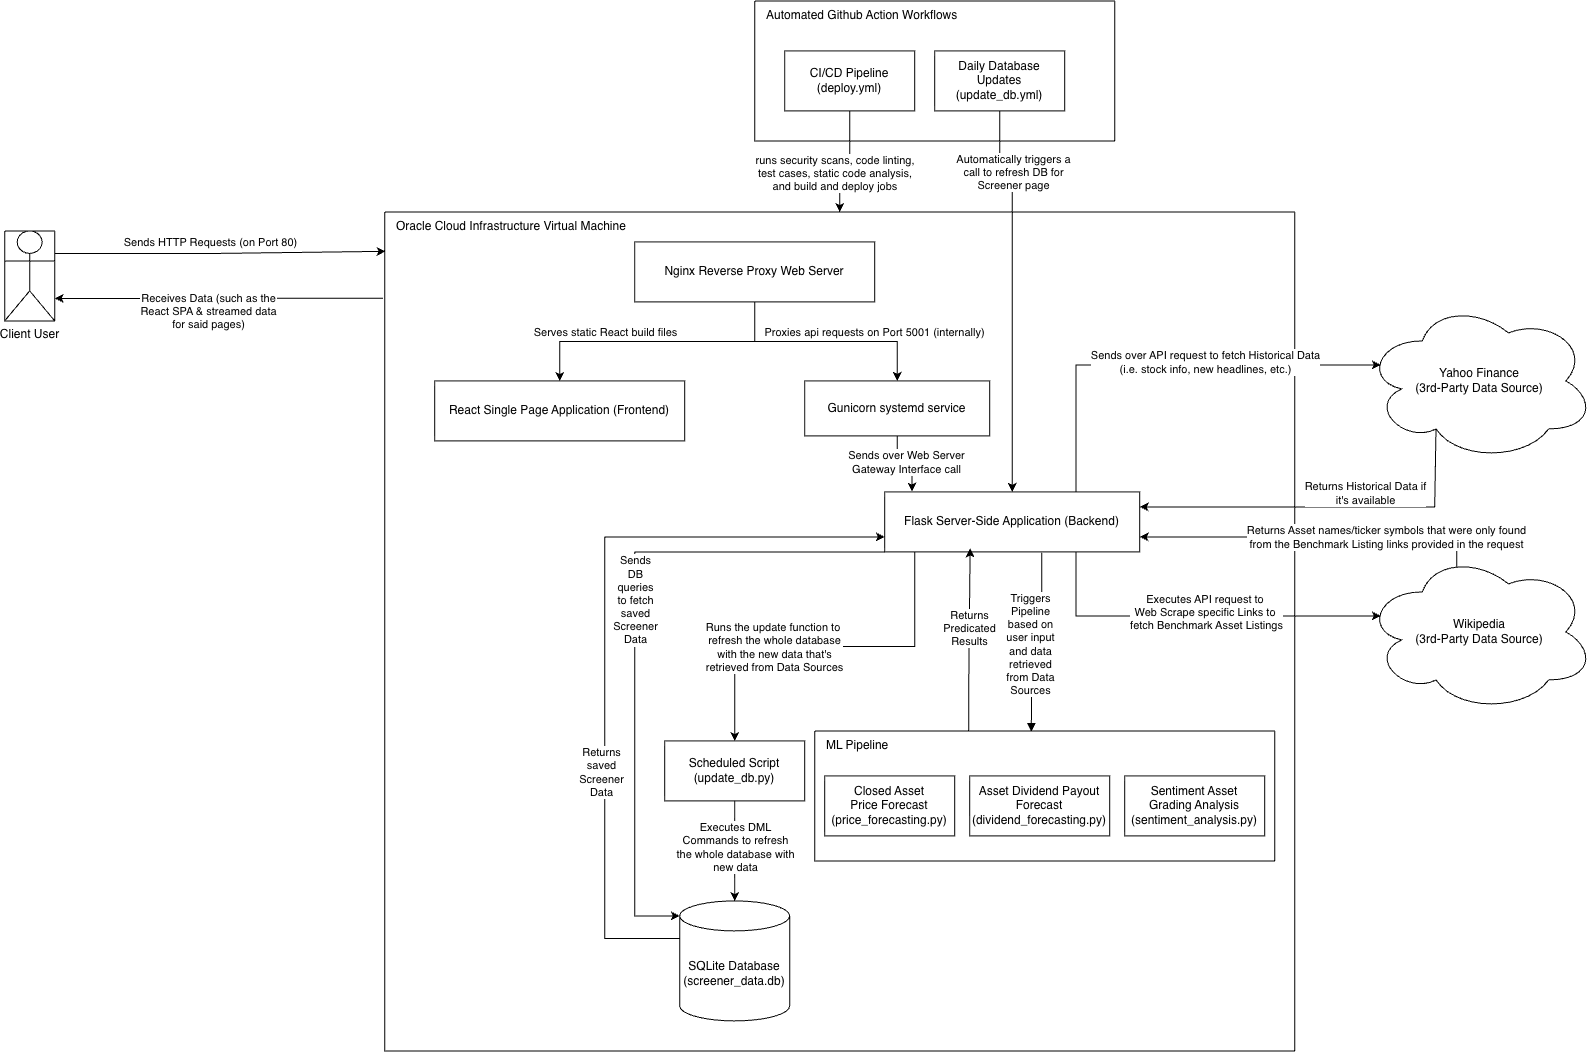
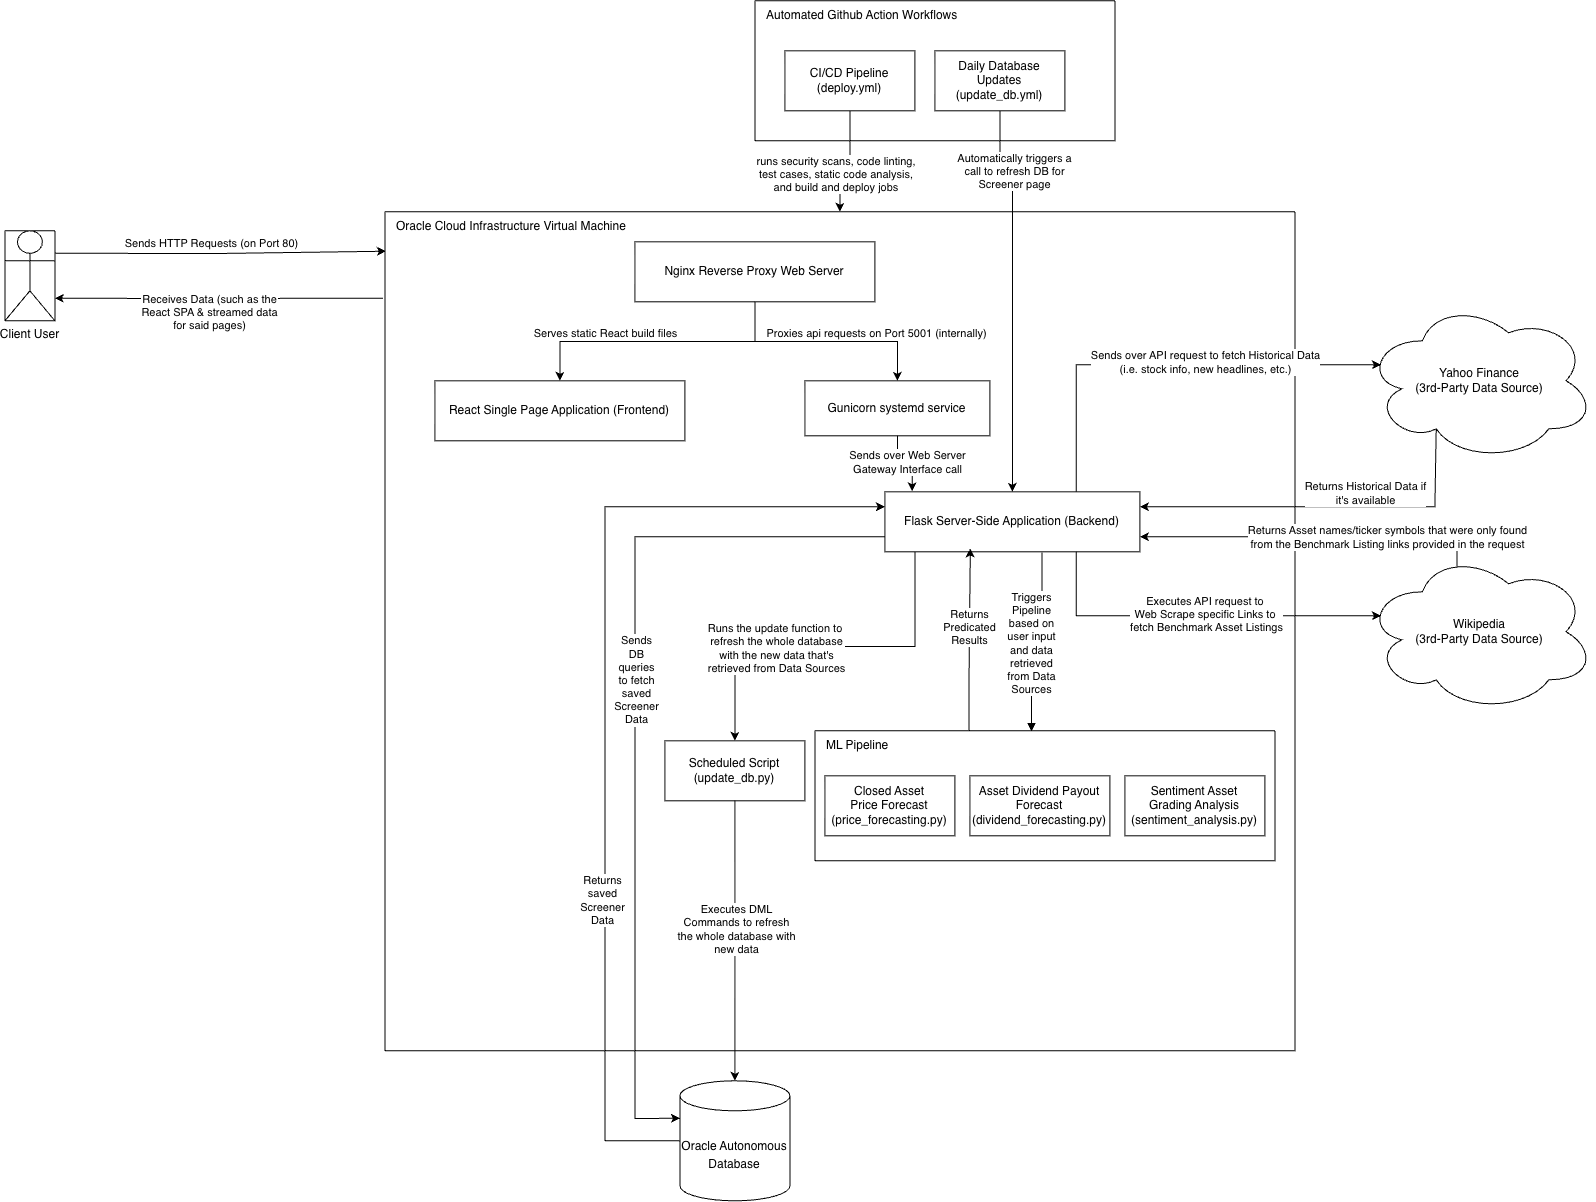
migrating from SQLite to Oracle Autonomous Database

diff --git a/backend/tests/utils/test_db_utils.py b/backend/tests/utils/test_db_utils.py
@@ -11,18 +11,18 @@ from utils.db_utils import (
 )
 
 
-@patch('utils.db_utils.os.path.exists')
-@patch('utils.db_utils.sqlite3.connect')
-def test_get_db_connection_success(mock_connect, mock_exists):
-    mock_exists.return_value = True
+@patch('utils.db_utils.get_engine')
+def test_get_db_connection_success(mock_get_engine):
     conn = get_db_connection()
-    mock_connect.assert_called_once()
-    assert conn == mock_connect.return_value
+    mock_get_engine.assert_called_once()
+    assert conn == mock_get_engine.return_value.raw_connection.return_value
 
-@patch('utils.db_utils.os.path.exists')
-def test_get_db_connection_not_found(mock_exists):
-    mock_exists.return_value = False
-    with pytest.raises(FileNotFoundError):
+@patch.dict('os.environ', {}, clear=True)
+def test_get_db_connection_not_found():
+    # Clear the cached engine module variable
+    import utils.db_utils
+    utils.db_utils.engine = None
+    with pytest.raises(ValueError, match="DB_DSN is not set"):
         get_db_connection()
 
 @patch('utils.db_utils.get_db_connection')
@@ -84,11 +84,11 @@ def test_get_latest_headlines_exception(mock_get_conn):
     headlines = get_latest_headlines()
     assert headlines == []
 
-@patch('utils.db_utils.get_db_connection')
+@patch('utils.db_utils.get_engine')
 @patch('utils.db_utils.pd.read_sql')
-def test_get_historical_prices_df(mock_read_sql, mock_get_conn):
-    mock_conn = MagicMock()
-    mock_get_conn.return_value = mock_conn
+def test_get_historical_prices_df(mock_read_sql, mock_get_engine):
+    mock_eng = MagicMock()
+    mock_get_engine.return_value = mock_eng
     
     # Mock empty dataframe
     mock_read_sql.return_value = pd.DataFrame()
@@ -114,8 +114,8 @@ def test_get_historical_prices_df(mock_read_sql, mock_get_conn):
     assert 'AAPL' in df2.columns.levels[0]
     assert 'MSFT' in df2.columns.levels[0]
 
-@patch('utils.db_utils.get_db_connection')
-def test_get_historical_prices_df_exception(mock_get_conn):
-    mock_get_conn.side_effect = Exception("DB Error")
+@patch('utils.db_utils.get_engine')
+def test_get_historical_prices_df_exception(mock_get_engine):
+    mock_get_engine.side_effect = Exception("DB Error")
     df = get_historical_prices_df()
     assert df.empty

diff --git a/backend/tests/database/scripts/test_update_db.py b/backend/tests/database/scripts/test_update_db.py
@@ -108,7 +108,7 @@ def test_write_headlines(mock_fetch):
     _write_headlines(mock_conn)
     assert mock_conn.execute.call_count == 2 # Delete + Insert
 
-@patch('database.scripts.update_db.sqlite3.connect')
+@patch('database.scripts.update_db.get_engine')
 @patch('database.scripts.update_db.os.listdir')
 @patch('database.scripts.update_db.open', new_callable=MagicMock)
 @patch('database.scripts.update_db.fetch_benchmarks')
@@ -133,12 +133,16 @@ def test_update_database(mock_write_head, mock_write_bench, mock_down, mock_fetc
     update_database()
     
     mock_connect.assert_called_once()
-    mock_conn.executescript.assert_called_once()
+    
+    # Verify raw_connection was used and commit was called
+    raw_conn_mock = mock_conn.raw_connection.return_value.__enter__.return_value
+    cursor_mock = raw_conn_mock.cursor.return_value
+    assert cursor_mock.execute.call_count >= 1
+    
     mock_down.assert_called_once()
     mock_write_bench.assert_called_once()
     mock_write_head.assert_called_once()
-    mock_conn.commit.assert_called_once()
-    mock_conn.close.assert_called_once()
+    assert raw_conn_mock.commit.call_count >= 1
 
 @patch('database.scripts.update_db.yf.download')
 @patch('database.scripts.update_db.time.sleep', MagicMock())
@@ -239,7 +243,7 @@ def test_write_benchmarks_missing_fields():
     _write_benchmarks(benchmarks, mock_conn)
     assert mock_conn.execute.call_count > 4
 
-@patch('database.scripts.update_db.sqlite3.connect', MagicMock())
+@patch('database.scripts.update_db.get_engine', MagicMock())
 @patch('database.scripts.update_db.os.listdir', MagicMock(return_value=[]))
 @patch('database.scripts.update_db.fetch_benchmarks')
 @patch('database.scripts.update_db._download_ticker_history', MagicMock())

diff --git a/backend/services/screener_service.py b/backend/services/screener_service.py
@@ -172,8 +172,8 @@ def process_custom_scans_by_benchmark(data, benchmarks_list):
     return movers_by_benchmark, scans_by_benchmark
 
 def get_screener_dashboard_data():
-    """Aggregates all screener data from local SQLite database."""
-    logger.info("Fetching fresh screener data from SQLite")
+    """Aggregates all screener data from Oracle Database."""
+    logger.info("Fetching fresh screener data from Oracle DB")
     
     benchmarks = get_latest_benchmarks()
     news = get_latest_headlines()

diff --git a/README.md b/README.md
@@ -14,8 +14,8 @@ To ensure enterprise-grade stability, security, and performance, this applicatio
 2. **Web Server (Nginx Reverse Proxy):** Nginx acts as the secure front door to the application. It serves the compiled React static assets from `frontend/dist/` with Gzip compression and long-term immutable caching for Vite-hashed files. It intercepts incoming public HTTP traffic on port 80 and reverse-proxies validated API requests (`/search/`, `/predict/`, `/predict_stream/`, `/screener`) to the internal application layer, with SSE-specific buffering disabled for the streaming endpoint.
 3. **Application Server (Gunicorn WSGI):** Web servers and Python applications speak different protocols. Gunicorn acts as the essential Web Server Gateway Interface (WSGI) translator. It runs as a highly available background `systemd` service on internal port 5001 and manages 4 worker processes with 10 threads each that execute the Flask code in parallel, with a 120-second timeout for long-running ML predictions.
 4. **API & ML Execution:** The Flask routing layer handles API requests across three blueprint modules: **search** (Yahoo Finance autocomplete proxy), **prediction** (ML pipeline trigger with SSE streaming), and **screener** (cached market dashboard data). Prediction requests trigger the algorithmic pipeline which fetches real-time data, dynamically trains the machine learning models, and actively streams the execution progress and final multi-horizon forecast back to the client as structured JSON via SSE.
-5. **Database (SQLite):** An embedded SQLite database (`screener_data.db`) stores pre-computed market data for the screener dashboard, including benchmark index prices (Dow 30, S&P 500, Nasdaq 100, Russell 1000), constituent stock metadata and 1-year OHLCV price histories, and top market news headlines. This data is refreshed daily via an automated GitHub Actions workflow after market close.
-6. **Automated Data Agents:** The database is kept current through scheduled background agents. In **production**, a GitHub Actions workflow (`update_db.yml`) runs the update script every weekday at 5:30 PM ET, commits the fresh database, and triggers a deployment. For **local development**, native platform schedulers (`launchd` on macOS, Task Scheduler on Windows) provide the same automation with simple CLI controls (`agent_ctl.sh` / `agent_ctl.bat`).
+5. **Database (Oracle Autonomous Database):** An embedded Oracle Autonomous Database database (``) stores pre-computed market data for the screener dashboard, including benchmark index prices (Dow 30, S&P 500, Nasdaq 100, Russell 1000), constituent stock metadata and 1-year OHLCV price histories, and top market news headlines. This data is refreshed daily via an automated GitHub Actions workflow after market close.
+6. **Automated Data Agents:** The database is kept current through scheduled background agents. A GitHub Actions workflow (`update_db.yml`) runs the update script every weekday at 5:30 PM ET to pipe the data directly to the Oracle database.
 7. **CI/CD Pipeline:** An automated workflow that triggers on code changes to enforce strict quality control. Before any code reaches the production server, the pipeline executes security vulnerability scans, code linting (Python and JavaScript), automated test suites (Pytest + Playwright), and static code analysis (SonarCloud), ensuring only stable, validated code is deployed to the Oracle Cloud virtual machine. A post-deployment health check with automatic rollback provides zero-downtime safety.
 8. **Data Sources:** The external providers for all live and historical financial data. The backend interfaces with **Yahoo Finance** to resolve partial ticker symbols for search autocomplete, fetch extensive historical price and dividend datasets for ML training, retrieve company fundamentals for sentiment grading, and scrape news articles for NLP analysis. **Wikipedia** is scraped for benchmark index constituent lists and sector classifications.
 
@@ -36,11 +36,9 @@ stock-market-predictor/
 │   │   ├── screener_controller.py      # /screener dashboard data
 │   │   └── search_controller.py        # /search Yahoo Finance proxy
 │   ├── database/
-│   │   ├── data/                   # SQLite database file (screener_data.db)
 │   │   ├── ddl/                    # SQL schema definitions (CREATE TABLE)
 │   │   ├── dml/                    # Parameterized SQL query modules
 │   │   ├── scripts/                # Database update script (update_db.py)
-│   │   └── local_agents/           # Background agent schedulers (macOS/Windows)
 │   ├── ml_models/                  # Scikit-learn ML pipeline & NLP engine
 │   │   ├── price_forecasting.py    # Multi-horizon price prediction
 │   │   ├── dividend_forecasting.py # Dividend payout prediction
@@ -58,7 +56,7 @@ stock-market-predictor/
 │   │   ├── services/               # Service layer tests
 │   │   └── utils/                  # Utility function tests
 │   └── utils/                      # Helper utilities and shared logic
-│       ├── db_utils.py             # SQLite connection & query helpers
+│       ├── db_utils.py             # Oracle Autonomous Database connection & query helpers
 │       ├── ml_model_utils.py       # Model instantiation & training helpers
 │       └── service_utils.py        # Technical indicators & chart data builders
 ├── frontend/
@@ -93,7 +91,7 @@ stock-market-predictor/
 ├── infra/                          # Terraform IaC & Nginx configuration
 │   ├── main.tf                     # OCI network + compute provisioning
 │   ├── variables.tf                # Terraform variable declarations
-│   ├── forecaster.nginx.conf       # Nginx reverse proxy site config
+│   ├── marketlens.nginx.conf       # Nginx reverse proxy site config
 │   └── terraform.tfvars.txt        # Template for OCI credentials
 ├── pytest.ini                      # Pytest configuration
 ├── reset-env.sh                    # Virtual environment reset script
@@ -103,7 +101,7 @@ stock-market-predictor/
 ---
 
 ## Core Features
-* **Market Screener Dashboard:** A full-featured homepage that provides a bird's-eye view of the broader market. It displays real-time benchmark performance for 4 major indices (Dow 30, S&P 500, Nasdaq 100, Russell 1000) with interactive chart visualizations switchable between **Line**, **Candlestick (OHLC)**, and **Heatmap (Treemap)** modes with optional sector grouping. A suite of 10 quantitative screener tables — including Day Gainers, Day Losers, Most Active, 52-Week High/Low Breakouts, Overbought (RSI > 70), Oversold (RSI < 30), Unusual Volume, Most Volatile, and Biggest Dividends — allows users to scan the market universe filtered by benchmark. A sidebar displays the latest market news headlines. All screener data is served from a local SQLite database that is refreshed daily after market close.
+* **Market Screener Dashboard:** A full-featured homepage that provides a bird's-eye view of the broader market. It displays real-time benchmark performance for 4 major indices (Dow 30, S&P 500, Nasdaq 100, Russell 1000) with interactive chart visualizations switchable between **Line**, **Candlestick (OHLC)**, and **Heatmap (Treemap)** modes with optional sector grouping. A suite of 10 quantitative screener tables — including Day Gainers, Day Losers, Most Active, 52-Week High/Low Breakouts, Overbought (RSI > 70), Oversold (RSI < 30), Unusual Volume, Most Volatile, and Biggest Dividends — allows users to scan the market universe filtered by benchmark. A sidebar displays the latest market news headlines. All screener data is served from the Oracle Autonomous Database database that is refreshed daily after market close.
 * **Searching for a Publicly Traded Asset:** A debounced, native search bar that proxies the Yahoo Finance query API through the Flask backend. This provides live, CORS-friendly autocomplete and allows users to search across a vast universe of publicly traded assets, including standard equities, ETFs, Mutual Funds, Cryptocurrencies, Market Indices, and specialized assets like REITs and CEFs.
 * **Sentiment Grading Analysis:** The system synthesizes quantitative ML outputs, Wall Street consensus ratings, fundamental metrics (like EPS, Beta, Market Cap, and Yield), and NLP-driven news sentiment to assign an overarching AI Stock Grade (A+ through F) and a General Sentiment (Bullish/Bearish/Neutral). It dynamically adapts its grading criteria based on the asset class, ensuring funds or cryptocurrencies aren't penalized for lacking traditional corporate metrics. For ETFs and Mutual Funds, it also dynamically extracts and visualizes the top 10 holdings and economic sector exposures.
     * **In-App News Reader:** The NLP reasoning block isolates the strongest positive and negative news catalysts driving the asset. Users can choose to instantly open external links directly to the original publisher, or click the headline to trigger a native, glassmorphic modal overlay that presents a clean, localized summary of the article without ever leaving the application.
@@ -190,32 +188,31 @@ The backend utilizes the HuggingFace `transformers` library to load the highly s
     npm i
     cd ..
     ```
-3.  **Initialize the Screener Database:**
+3.  **Configure Environment Variables:**
+    You must provide credentials to connect to your Oracle Autonomous Database.
+    ```bash
+    export DB_USER="admin"
+    export DB_PASSWORD="your_password"
+    export DB_DSN="tcps://adb.region.oraclecloud.com..."
+    ```
+
+4.  **Initialize the Database (Only required for new databases):**
+    If your Oracle DB is completely empty, run this to build the tables and fetch market data:
     ```bash
     PYTHONPATH=. python backend/database/scripts/update_db.py
     ```
-4.  **Run the Backend Server:**
+
+5.  **Run the Backend Server:**
     ```bash
     python backend/app.py
     ```
-5.  **Run the Frontend Application (separate terminal):**
+6.  **Run the Frontend Application (separate terminal):**
     ```bash
     cd frontend
     npm run dev
     ```
     The app will be available at `http://localhost:5173` with Vite proxying API requests to the Flask backend on port 5001.
 
-6.  **(Optional) Enable Local Background Database Updates:**
-    ```bash
-    cd backend/database/local_agents
-    chmod +x agent_ctl.sh update_agent.sh  # macOS only
-    ./agent_ctl.sh start                   # macOS (launchd)
-    # or
-    agent_ctl.bat start                    # Windows (Task Scheduler)
-    ```
-    This registers a background agent that automatically refreshes the screener database every weekday at 4:30 PM ET after market close. See `backend/database/local_agents/agent_setup.md` for full documentation.
-
----
 
 ## Cloud Infrastructure (Terraform / OCI)
 The production environment is hosted on an **Oracle Cloud Infrastructure (OCI)** ARM-based instance (`VM.Standard.A1.Flex` shape with 2 OCPUs and 12GB RAM) running Ubuntu 22.04 LTS.
@@ -253,7 +250,7 @@ terraform apply   # Provisions the VCN, Subnets, and Virtual Machine
 ### Step 3: Automated Database Updates (GitHub Actions)
 A scheduled GitHub Actions workflow (`update_db.yml`) automatically refreshes the screener database. In production, it runs every weekday at 5:30 PM ET (after market close):
 
-The update script fetches the latest benchmark indices and constituent tickers from Yahoo Finance and Wikipedia, downloads 1-year OHLCV price histories for all constituents (in chunks of 20 with exponential backoff retries), refreshes market news headlines, and writes everything to the SQLite database. The workflow then commits the fresh database to the `main` branch, automatically triggering a deployment to the production server.
+The update script fetches the latest benchmark indices and constituent tickers from Yahoo Finance and Wikipedia, downloads 1-year OHLCV price histories for all constituents (in chunks of 20 with exponential backoff retries), refreshes market news headlines, and writes everything directly to the Oracle Autonomous Database. Because the database is fully decoupled from the application server, this data is instantly available in production without requiring a repository commit or a server redeployment.
 
 ---
 
@@ -300,7 +297,7 @@ The continuous integration and continuous delivery/deployment lifecycle is fully
 ## Live Production Environment
 The application provides a clean, responsive web interface featuring interactive Chart.js visualizations to display historical trends, future forecasts, candlestick charts, and market heatmaps.
 
-You can access the live production environment hosted on Oracle Cloud here: [http://150.136.36.70](http://150.136.36.70)
+You can access the live production environment hosted on Oracle Cloud here: [http://150.136.46.128](http://150.136.46.128)
 *(Note: This is currently accessible via direct IP until domain name resolution and SSL certification are configured).*
 
 ---
@@ -310,7 +307,7 @@ You can access the live production environment hosted on Oracle Cloud here: [htt
 * **CI/CD & DevOps:** GitHub Actions, SonarCloud (Static Analysis)
 * **Web Serving:** Nginx (Reverse Proxy), Gunicorn (WSGI)
 * **Back-End:** Python 3.12, Flask, Flask-CORS, Server-Sent Events (SSE)
-* **Database:** SQLite
+* **Database:** Oracle Autonomous Database
 * **Machine Learning:** Scikit-Learn (`HistGradientBoosting`), Pandas, NumPy, HuggingFace Transformers (FinBERT), PyTorch
 * **Data Sourcing:** yfinance (Yahoo Finance API), BeautifulSoup / lxml (Wikipedia Scraping), Requests
 * **Front-End:** React 18, React Router v7, Vite, JavaScript, CSS, Lucide React (Icons)
